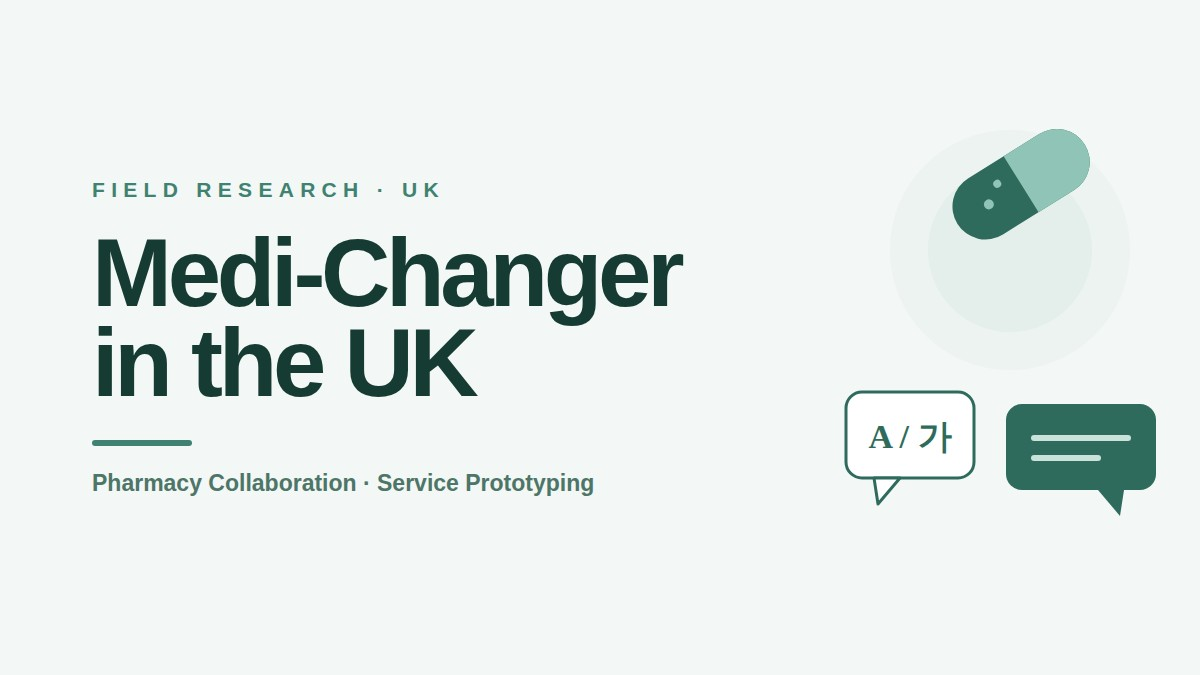
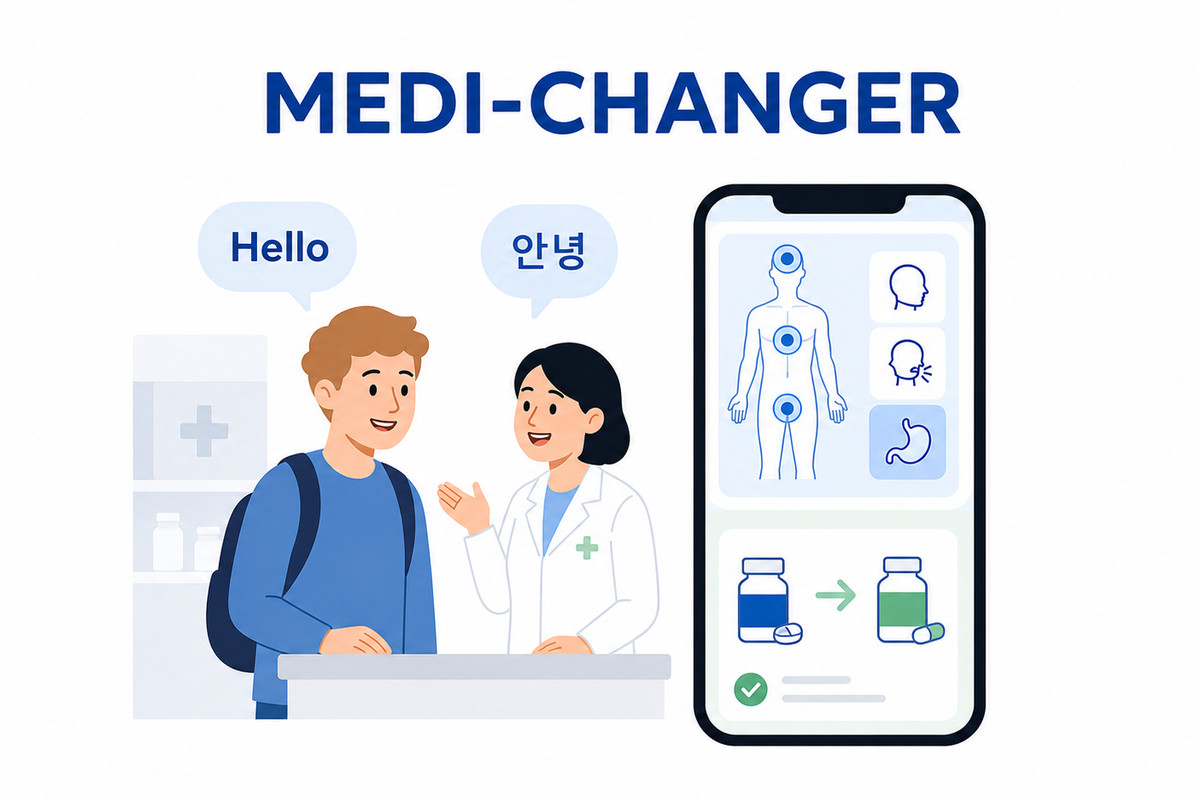
Add files via upload

diff --git a/index.html b/index.html
@@ -42,7 +42,7 @@
 
 <link rel="preconnect" href="https://cdn.jsdelivr.net"/>
 <link rel="stylesheet" href="https://cdn.jsdelivr.net/gh/orioncactus/pretendard@v1.3.9/dist/web/variable/pretendardvariable-dynamic-subset.min.css"/>
-<link rel="stylesheet" href="style.css?v=37"/>
+<link rel="stylesheet" href="style.css?v=38"/>
 <noscript><style>section,.fade{opacity:1!important;transform:none!important}</style></noscript>
 </head>
 <body>
@@ -66,7 +66,6 @@
   <a href="#awards">Awards</a>
   <a href="#conferences">Conferences</a>
   <a href="#certifications">Certs</a>
-  <a href="#contact">Contact</a>
 </nav>
 
 <!-- ══ HERO ══ -->
@@ -103,10 +102,6 @@
         <svg viewBox="0 0 24 24"><path d="M4 3h16a1 1 0 011 1v16a1 1 0 01-1 1H4a1 1 0 01-1-1V4a1 1 0 011-1zm4.6 4.2H6.4l3.1 9.6h2.3l3.1-9.6h-2.2l-2 6.9-2.1-6.9z"/></svg>
         Blog
       </a>
-      <button type="button" class="social-btn social-btn--mail" id="mailBtn" data-u="dltmd004" data-d="yonsei.ac.kr">
-        <svg viewBox="0 0 24 24"><path d="M20 4H4a2 2 0 0 0-2 2v12a2 2 0 0 0 2 2h16a2 2 0 0 0 2-2V6a2 2 0 0 0-2-2zm0 4.2-8 5-8-5V6l8 5 8-5v2.2z"/></svg>
-        Email
-      </button>
       <a class="social-btn" href="assets/resume/Seunghyeon_Lee_Resume.pdf" target="_blank" rel="noreferrer">
         <svg viewBox="0 0 24 24"><path d="M14 2H6a2 2 0 00-2 2v16a2 2 0 002 2h12a2 2 0 002-2V8l-6-6zm4 18H6V4h7v5h5v11zm-5-9H9v2h4v-2zm2 4H9v2h6v-2z"/></svg>
         Resume
@@ -115,7 +110,7 @@
 
     <div class="hero-ctas">
       <a class="btn-primary" href="#research">View My Work</a>
-      <a class="btn-ghost" href="#contact">Contact Me</a>
+      <button type="button" class="btn-ghost btn-mail" id="mailBtn" data-u="dltmd004" data-d="yonsei.ac.kr">Contact Me</button>
     </div>
   </div>
 
@@ -762,55 +757,17 @@
   </div>
 </section>
 
-<div class="divider"></div>
-
-<!-- ══ CONTACT ══ -->
-<section id="contact">
-  <div class="sec-label">Get in Touch</div>
-
-  <div class="contact-links">
-    <a href="#" class="clink" data-user="dltmd004" data-domain="yonsei.ac.kr" id="mailLink">
-      <div class="clink-icon">@</div>
-      <span>dltmd004 [at] yonsei [dot] ac [dot] kr</span>
-    </a>
-    <a href="https://www.linkedin.com/in/seunghyeon-lee-a156aa310/" target="_blank" rel="noreferrer" class="clink">
-      <div class="clink-icon">in</div>
-      <span>linkedin.com/in/seunghyeon-lee</span>
-    </a>
-    <a href="https://github.com/seunghyeon-lee-0" target="_blank" rel="noreferrer" class="clink">
-      <div class="clink-icon">gh</div>
-      <span>github.com/seunghyeon-lee-0</span>
-    </a>
-    <a href="https://velog.io/@idam0424/series" target="_blank" rel="noreferrer" class="clink">
-      <div class="clink-icon">V</div>
-      <span>velog.io/@idam0424</span>
-    </a>
-  </div>
-
-  <div class="form-separator">or send a message</div>
-
-  <form class="contact-form" id="contactForm">
-    <div>
-      <label for="cf-name">Name</label>
-      <input id="cf-name" type="text" placeholder="성함" autocomplete="off"/>
-    </div>
-    <div>
-      <label for="cf-email">Email</label>
-      <input id="cf-email" type="email" placeholder="you@example.com" autocomplete="off"/>
-    </div>
-    <div>
-      <label for="cf-msg">Message</label>
-      <textarea id="cf-msg" rows="4" placeholder="어떤 내용이든 편하게 남겨주세요."></textarea>
-    </div>
-    <button class="btn-submit" type="submit">Send Message</button>
-  </form>
-</section>
-
 <footer>
-  <span>© 2026 Seunghyeon Lee &nbsp;·&nbsp; <span class="build">build v37</span> &nbsp;·&nbsp;
-    <a href="https://github.com/seunghyeon-lee-0" target="_blank" rel="noreferrer">GitHub</a> &nbsp;·&nbsp;
-    <a href="https://www.linkedin.com/in/seunghyeon-lee-a156aa310/" target="_blank" rel="noreferrer">LinkedIn</a>
-  </span>
+  <div class="foot-inner">
+    <span class="foot-copy">© 2026 Seunghyeon Lee</span>
+    <div class="foot-links">
+      <button type="button" class="foot-link foot-mail" id="footMail" data-u="dltmd004" data-d="yonsei.ac.kr">Email</button>
+      <a class="foot-link" href="https://github.com/seunghyeon-lee-0" target="_blank" rel="noreferrer">GitHub</a>
+      <a class="foot-link" href="https://www.linkedin.com/in/seunghyeon-lee-a156aa310/" target="_blank" rel="noreferrer">LinkedIn</a>
+      <a class="foot-link" href="https://velog.io/@idam0424/series" target="_blank" rel="noreferrer">Blog</a>
+    </div>
+    <span class="build">build v38</span>
+  </div>
 </footer>
 
 <!-- ══ MODALS ══ -->
@@ -1260,13 +1217,10 @@
     </div>
 
     <div class="modal-chapter">
-      <div class="modal-chapter-label">Validation</div>
-      <div class="modal-stats-row">
-        <div class="modal-stat"><div class="modal-stat-num">621</div><div class="modal-stat-label">조사한 일반의약품</div></div>
-        <div class="modal-stat"><div class="modal-stat-num">207</div><div class="modal-stat-label">제공한 복약 안내</div></div>
-        <div class="modal-stat"><div class="modal-stat-num">51</div><div class="modal-stat-label">설문 참여자</div></div>
-        <div class="modal-stat"><div class="modal-stat-num">10</div><div class="modal-stat-label">심층 인터뷰</div></div>
-      </div>
+      <div class="modal-chapter-label">Research at a Glance</div>
+      <p class="modal-text">서비스 컨셉을 검증하기 위해 한국과 영국에서 현장 조사를 진행했습니다.</p>
+      <div class="modal-img-slot"><img src="assets/images/medi-04-research.jpg" alt="Research at a Glance" loading="lazy" onerror="this.parentElement.remove()"/></div>
+    </div>
     </div>
 
     <div class="modal-chapter">
@@ -1644,6 +1598,6 @@
   </div>
 </div>
 
-<script src="main.js?v=37"></script>
+<script src="main.js?v=38"></script>
 </body>
 </html>

diff --git a/main.js b/main.js
@@ -5,7 +5,12 @@ document.addEventListener('DOMContentLoaded', function () {
   // 배포(https)에서는 제목이 그대로 유지된다.
   var BUILD = document.querySelector('.build')?.textContent.trim() || '';
   console.log('%c' + BUILD, 'font-size:16px;font-weight:700;color:#c0392b');
-  if (location.protocol === 'file:' && BUILD) document.title = '[' + BUILD + '] ' + document.title;
+  var buildEl = document.querySelector('.build');
+  if (location.protocol === 'file:') {
+    if (BUILD) document.title = '[' + BUILD + '] ' + document.title;   // 로컬에서만 버전 확인
+  } else if (buildEl) {
+    buildEl.remove();                                                   // 배포본에는 노출하지 않는다
+  }
 
   /* ── How I Work 아코디언 ───────────────────────────── */
   window.toggleHiw = function (item) {
@@ -144,12 +149,12 @@ document.addEventListener('DOMContentLoaded', function () {
   const mailAddr = mailLink ? mailLink.dataset.user + '@' + mailLink.dataset.domain : 'dltmd004@yonsei.ac.kr';
   if (mailLink) mailLink.setAttribute('href', 'mailto:' + mailAddr);
 
-  /* ── 히어로 Email 버튼 ─────────────────────────────── */
+  /* ── 이메일 공개 버튼 (히어로 · 푸터) ───────────────── */
   // 주소를 HTML에 그대로 두지 않고, 클릭했을 때만 조립해 노출한다.
-  var mailBtn = document.getElementById('mailBtn');
-  if (mailBtn) {
-    mailBtn.addEventListener('click', function () {
-      var addr = mailBtn.dataset.u + '@' + mailBtn.dataset.d;
+  function bindMail(btn) {
+    if (!btn) return;
+    btn.addEventListener('click', function () {
+      var addr = btn.dataset.u + '@' + btn.dataset.d;
       var shown = addr.replace('@', ' [at] ').replace(/\./g, ' [dot] ');
 
       var box = document.createElement('span');
@@ -166,23 +171,13 @@ document.addEventListener('DOMContentLoaded', function () {
         navigator.clipboard?.writeText(addr);
         copy.classList.add('done');
         copy.innerHTML = '<svg viewBox="0 0 24 24" fill="none" stroke="currentColor" stroke-width="2.4" stroke-linecap="round" stroke-linejoin="round"><path d="M5 12.5 10 17.5 19 7"/></svg>';
-        setTimeout(function () { box.replaceWith(mailBtn); }, 1400);
+        setTimeout(function () { box.replaceWith(btn); }, 1600);
       });
       box.appendChild(copy);
-      mailBtn.replaceWith(box);
+      btn.replaceWith(box);
     });
   }
-
-  /* ── Contact form → mailto ─────────────────────────── */
-  const form = document.getElementById('contactForm');
-  form?.addEventListener('submit', e => {
-    e.preventDefault();
-    const name = document.getElementById('cf-name').value.trim();
-    const email = document.getElementById('cf-email').value.trim();
-    const msg = document.getElementById('cf-msg').value.trim();
-    const subject = encodeURIComponent(`[Portfolio] ${name || 'Contact'}`);
-    const body = encodeURIComponent(`${msg}\n\n---\n${name}\n${email}`);
-    window.location.href = `mailto:${mailAddr}?subject=${subject}&body=${body}`;
-  });
+  bindMail(document.getElementById('mailBtn'));
+  bindMail(document.getElementById('footMail'));
 
 });

diff --git a/style.css b/style.css
@@ -160,7 +160,7 @@ nav a.active{opacity:1;background:var(--fill);font-weight:600}
 .social-btn svg{width:15px;height:15px;fill:currentColor;flex-shrink:0}
 .social-btn:hover{background:var(--fill2)}
 
-.social-btn--mail{cursor:pointer;font-family:inherit}
+.btn-mail{cursor:pointer;font-family:inherit}
 .mail-reveal{
   display:inline-flex;align-items:center;gap:.55rem;
   padding:.62rem 1.3rem;background:var(--dark);border-radius:980px;
@@ -497,7 +497,7 @@ h2{
 .tag-inline{background:var(--sage-pale);border:1px solid var(--sage-mid);border-radius:6px;padding:.2rem .65rem;font-size:.94rem;font-weight:600;color:var(--accent)}
 
 /* ── AWARDS ────────────────────────────────────────────── */
-.award-grid{display:flex;flex-direction:column;gap:.6rem;max-width:64rem}
+.award-grid{display:flex;flex-direction:column;gap:.6rem;max-width:64rem;margin:0 auto}
 .award-card{
   background:var(--fill);border:none;padding:1.35rem 1.7rem;border-radius:16px;
   display:grid;grid-template-columns:auto 1fr auto auto;gap:.4rem 1.8rem;align-items:center;
@@ -600,9 +600,20 @@ h2{
 .form-separator::before,.form-separator::after{content:'';flex:1;height:1px;background:var(--hairline)}
 
 /* ── FOOTER ────────────────────────────────────────────── */
-footer{border-top:1px solid var(--hairline);padding:1.8rem 2rem;text-align:center;font-size:.98rem;color:var(--subtle);background:#fff}
-footer a{color:var(--subtle);text-decoration:none}
-.build{font-variant-numeric:tabular-nums;opacity:.55}
+footer{border-top:1px solid var(--hairline);padding:2rem;background:#fff}
+.foot-inner{
+  width:var(--col);max-width:100%;margin:0 auto;
+  display:flex;align-items:center;justify-content:space-between;gap:1.2rem;flex-wrap:wrap;
+}
+.foot-copy{font-size:.98rem;color:var(--subtle)}
+.foot-links{display:flex;align-items:center;gap:1.6rem;flex-wrap:wrap}
+.foot-link{
+  font:inherit;font-size:.98rem;font-weight:500;color:var(--muted);
+  background:none;border:none;padding:0;cursor:pointer;text-decoration:none;
+  transition:color .14s;
+}
+.foot-link:hover{color:var(--dark)}
+.build{font-size:.82rem;color:var(--subtle);opacity:.5;font-variant-numeric:tabular-nums}
 footer a:hover{color:var(--dark)}
 
 /* ── MODAL ─────────────────────────────────────────────── */
@@ -846,8 +857,8 @@ section.visible{opacity:1;transform:translateY(0)}
   .exp-title{font-size:1.08rem}
 
   /* contact */
-  .contact-links,.contact-form{max-width:100%}
-  .btn-submit{align-self:stretch;text-align:center}
+  .foot-inner{flex-direction:column;gap:.9rem;text-align:center}
+  .foot-links{justify-content:center;gap:1.2rem}
 
   /* awards 일렬 → 세로 스택 */
   /* 모바일: 등급/펼침 아이콘 한 줄 → 제목 → 주최 → 상세 */
